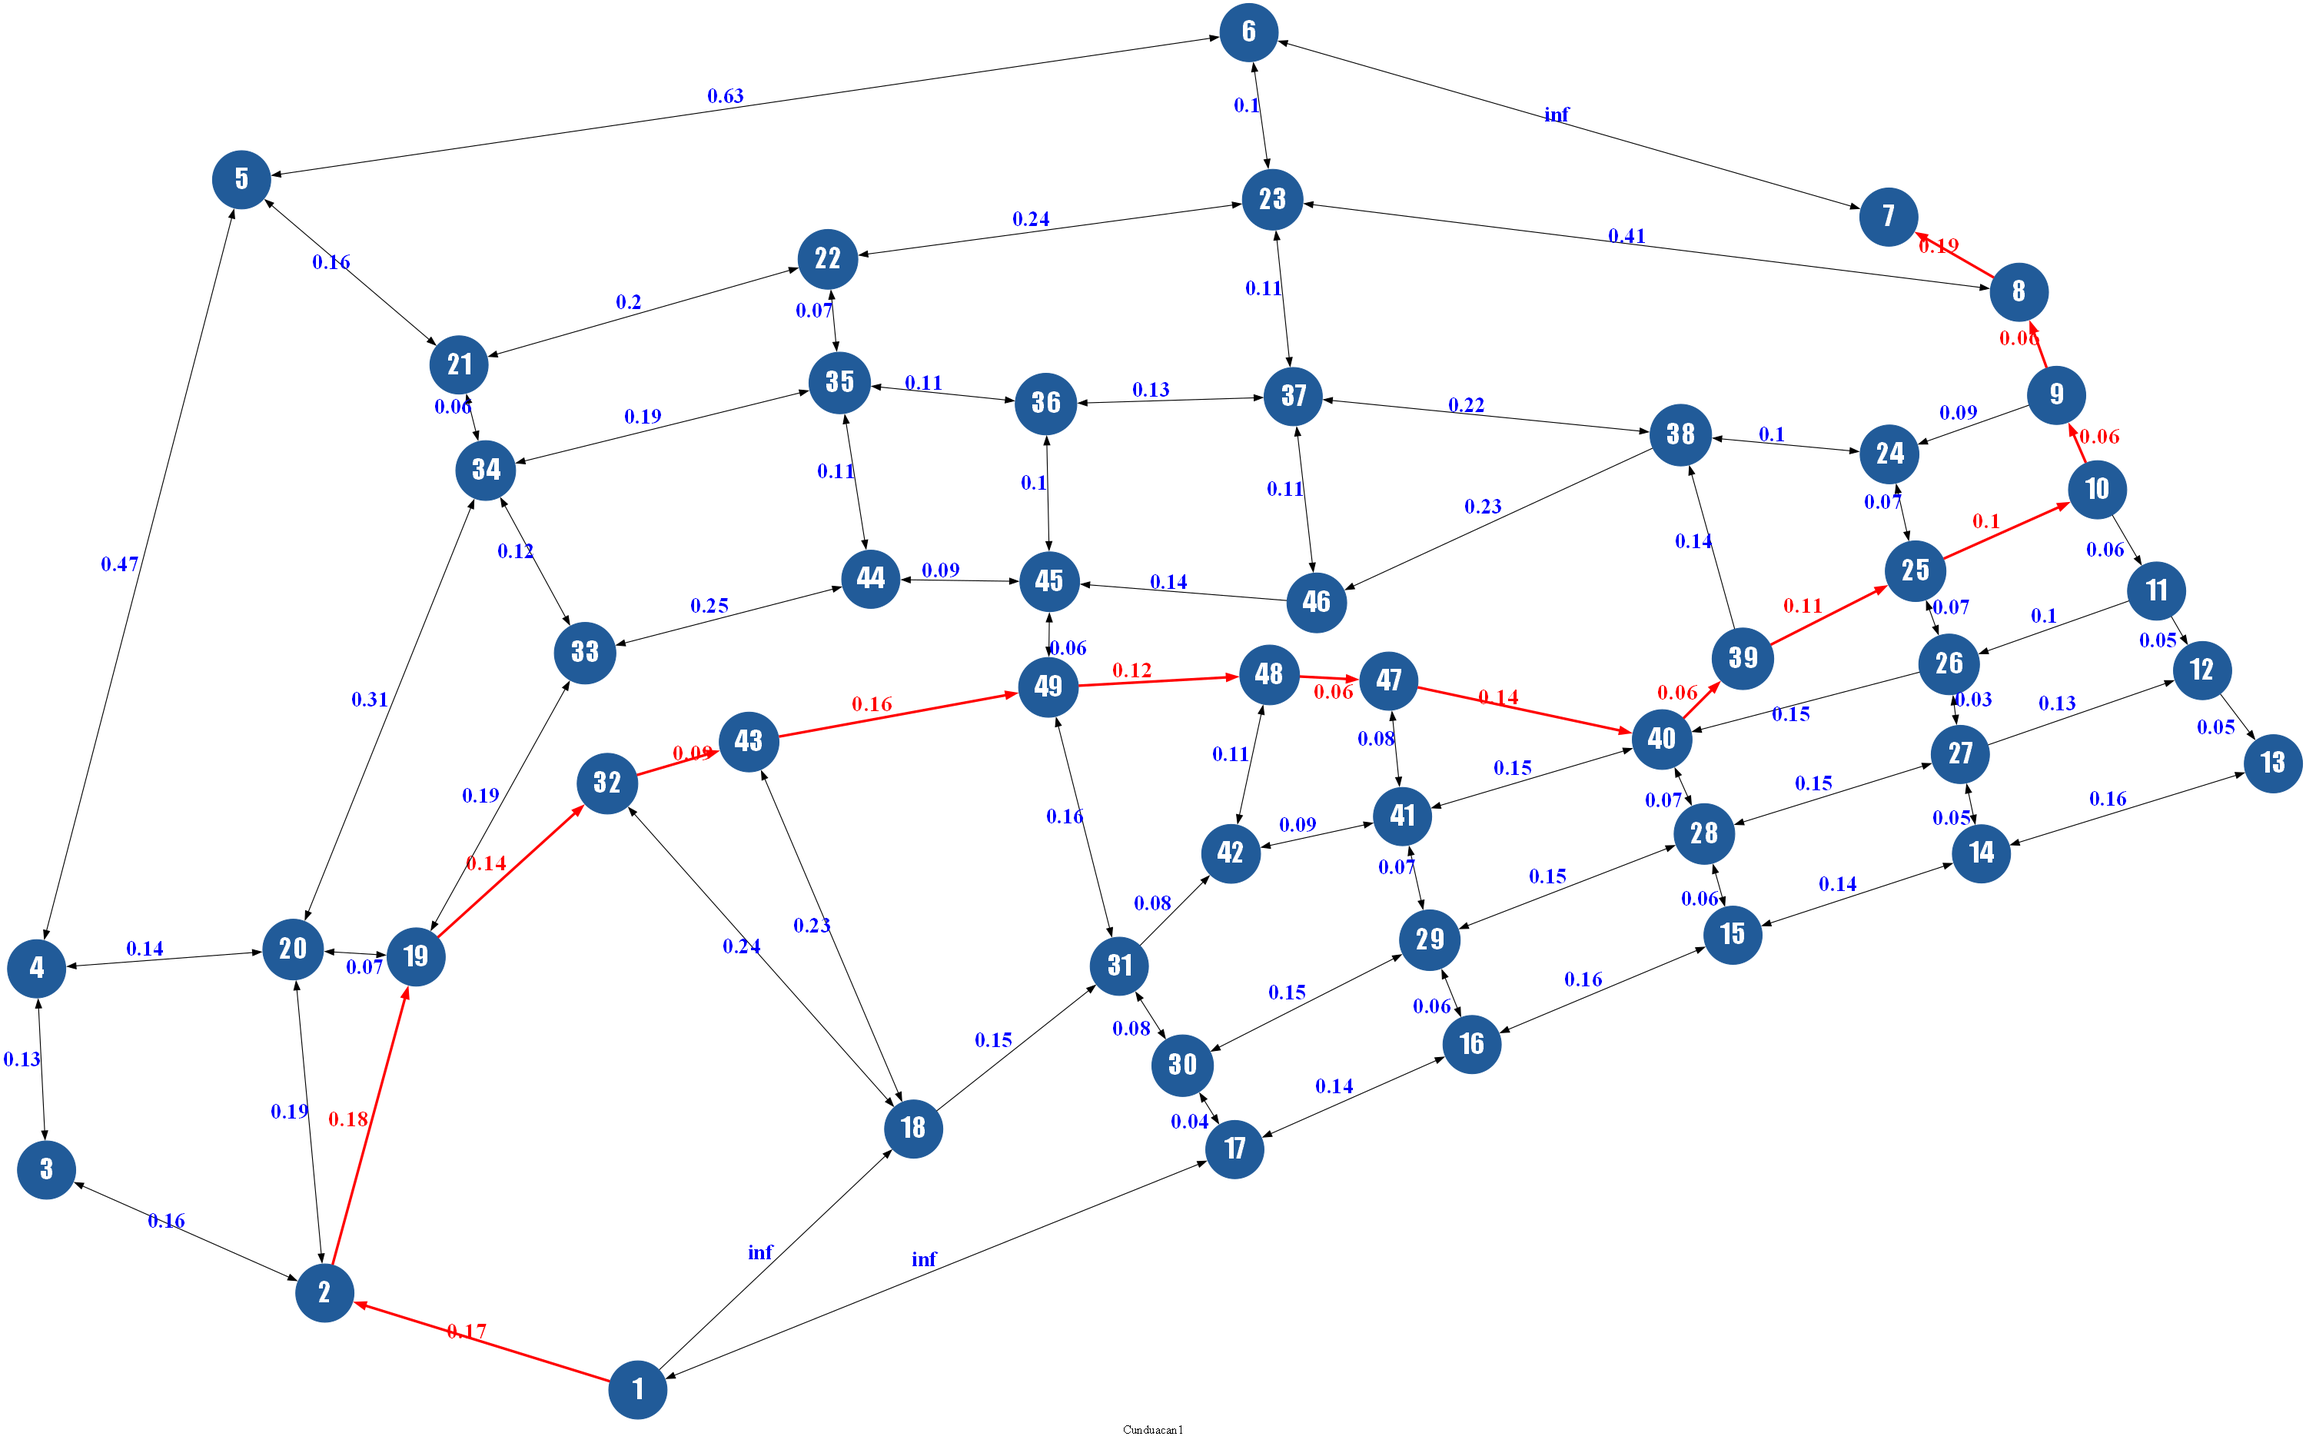
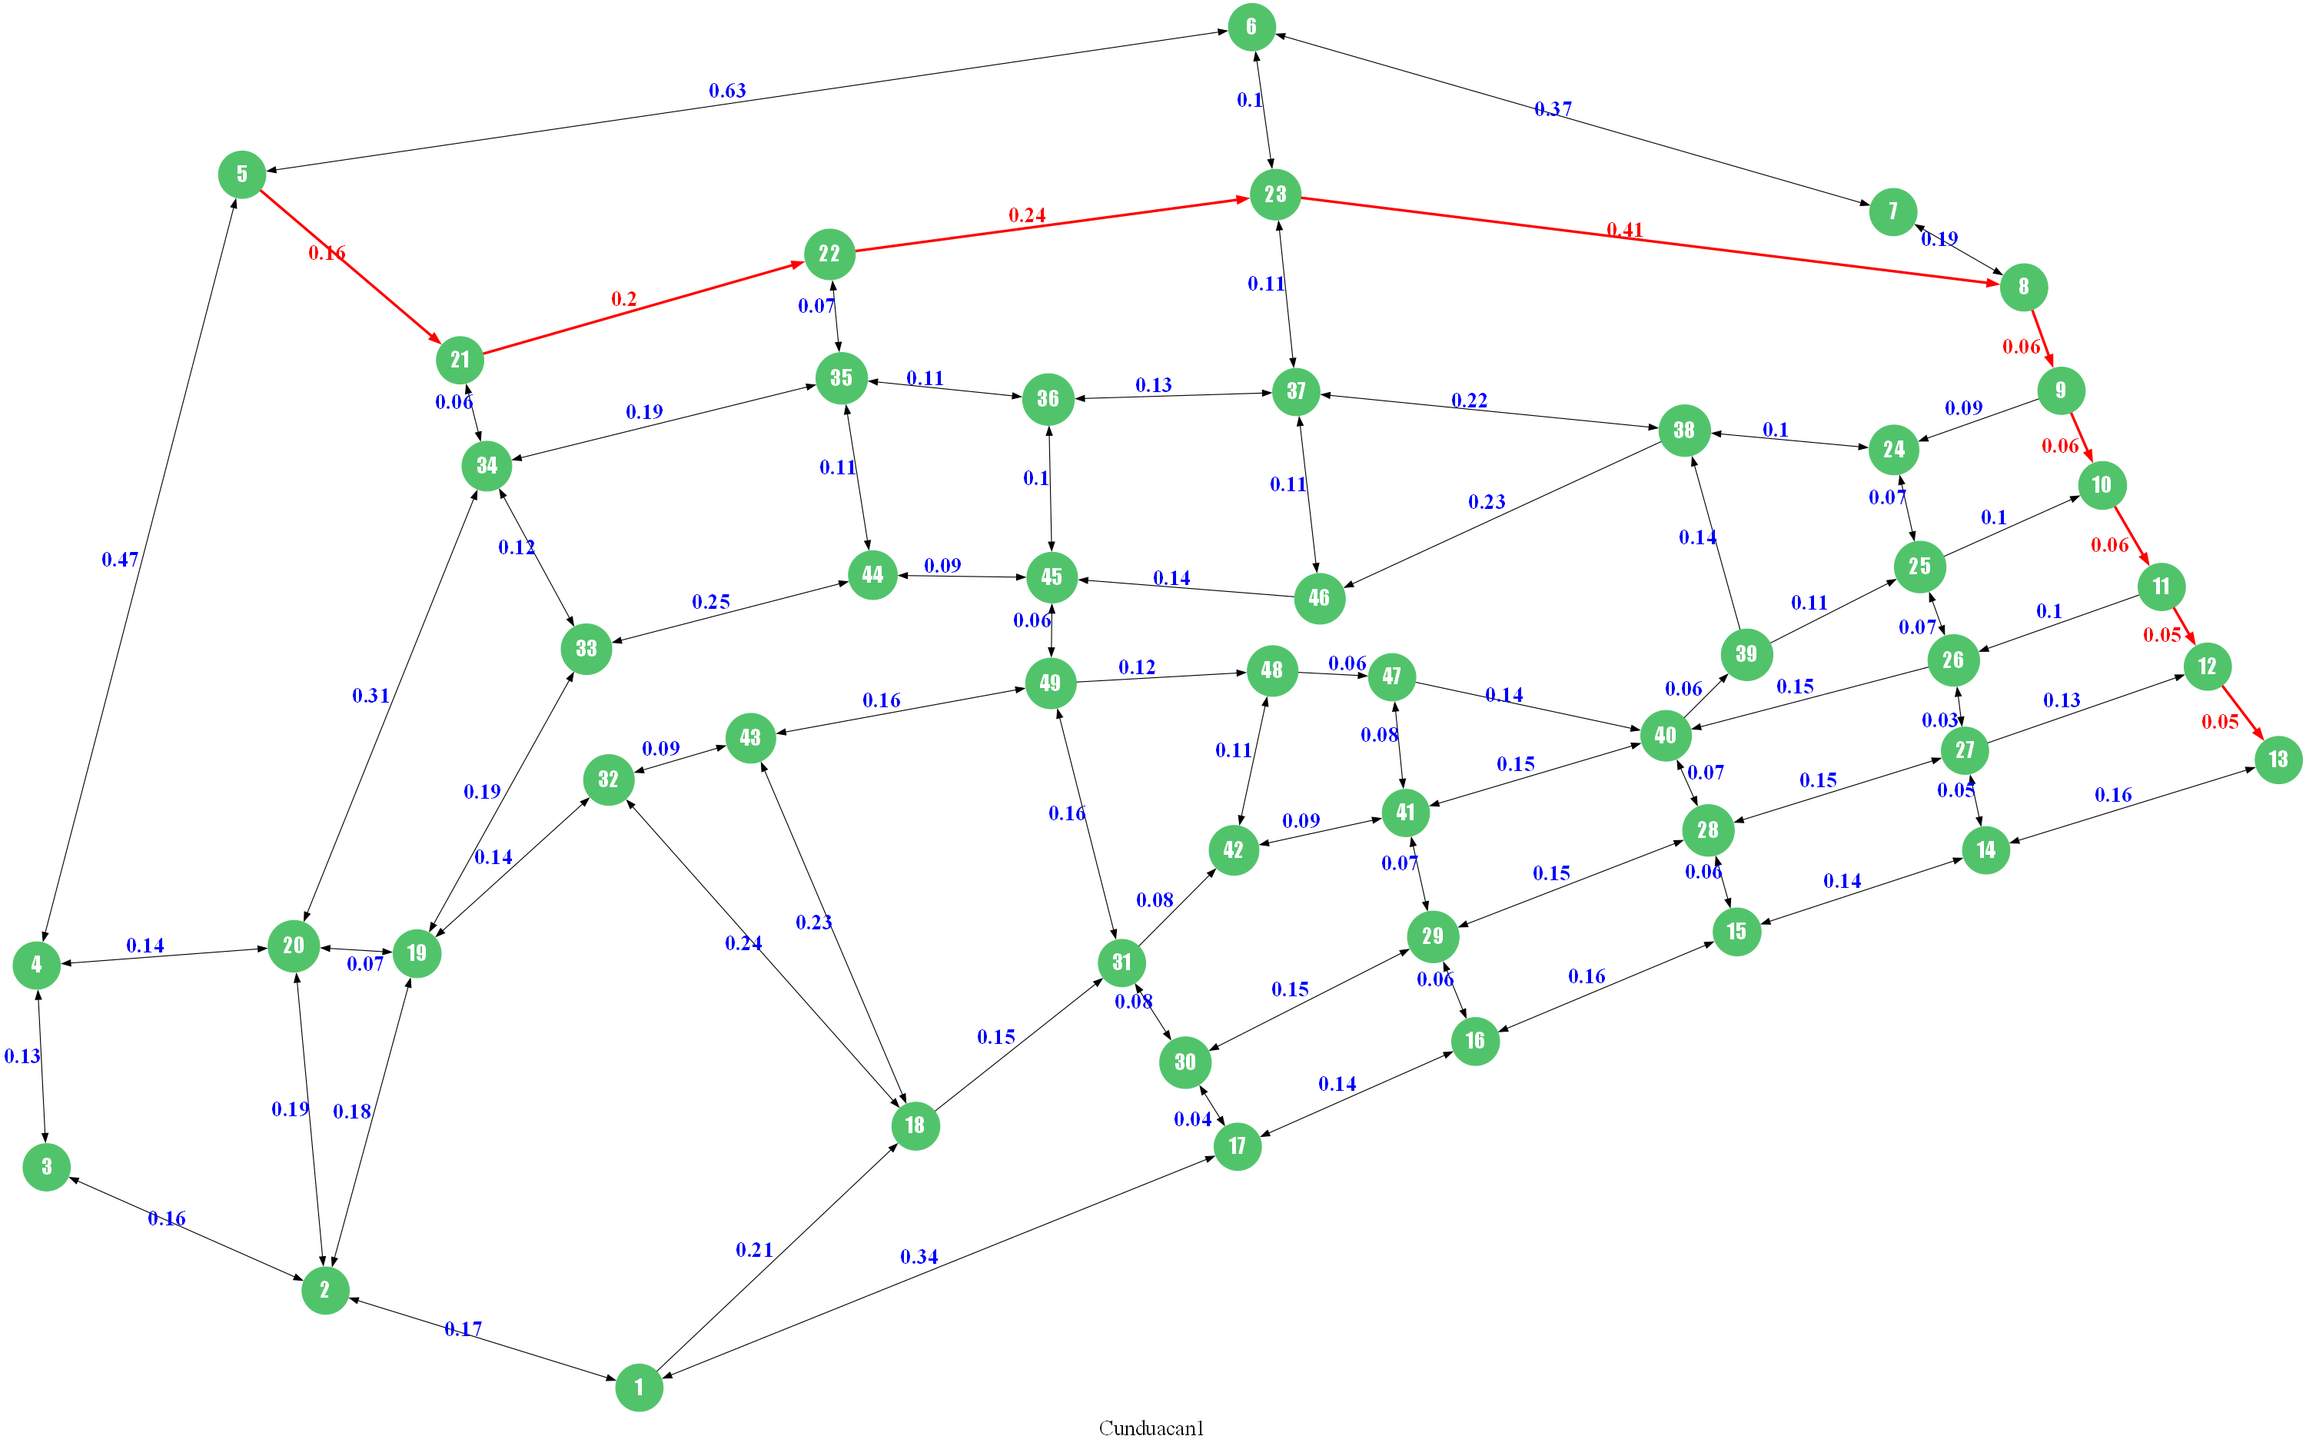
correccion de bug para pintar grafos, nuevo metodo de busqueda de arista en lista de aritas, se renombro los atributos de las aristas w -> weight

diff --git a/pinta.py b/pinta.py
@@ -10,12 +10,20 @@ coordenadas = []
 def pos_arista(GA, A): #calculamos la posicion de una arista en el grafo
     pos = 0
     for a in GA:
+        if a.vi.info == A.vi.info and a.vf.info == A.vf.info and a.weight == A.weight:               
+            return pos          
+        pos +=1
+    return -1
+
+def pos_arista_sin_peso(GA, A): #calculamos la posicion de una arista en el grafo
+    pos = 0
+    for a in GA:
         if a.vi.info == A.vi.info and a.vf.info == A.vf.info:               
             return pos          
         pos +=1
     return -1
 
-def pos_vert(G, vi): #calculamos la posicion de un vertice en el grafo
+def pos_vert(G:Grafo, vi:Vertice): #calculamos la posicion de un vertice en el grafo
     pos = 0
     for v in G.V:
         if v.info == vi.info:                
@@ -23,52 +31,50 @@ def pos_vert(G, vi): #calculamos la posicion de un vertice en el grafo
         pos +=1
     return -1
 
-def pos_aris_en_aris(a,B): #calculamos la posicion de un vertice en el grafo
+def pos_aris_en_aris(a:Arista,B:list[Arista]): #calculamos la posicion de un vertice en el grafo
     pos = 0       
     for b in B:
-        if a.vi.info == b.vi.info and a.vf.info == b.vf.info:                            
+        if a.vi.info == b.vi.info and a.vf.info == b.vf.info and a.weight == b.weight:                            
             return pos          
         pos +=1
     return -1
 
-def pinta_grafo(G, nombre="grafo", layout="circo", img_hd=False, p = False, camino=[], coordenadas=""): #layout : circo, dot, fdp, neato, osage, twopi
+def pinta_grafo(G, nombre="grafo", layout="circo", img_hd=False, p = False, camino=[], coordenadas="", font_size_label=15): #layout : circo, dot, fdp, neato, osage, twopi
     Q = []
-    hay_camino = False
-    if camino:
-        LC = list(map(lambda i,f: Arista(Vertice(i),Vertice(f)), camino[:-1], camino[1:]))
-        hay_camino = True     
+    if camino: #si hay caminos en la lista, los paso a una lista de arista 
+        LC = list(map(lambda i,f: G.A[pos_arista_sin_peso(G.A, Arista(Vertice(i), Vertice(f)))], camino[:-1], camino[1:]))       
 
     with open('grafo.dot', 'w') as archivo:
-        archivo.write('digraph G\n{\n\tnode [shape=circle, fontsize=32, width=0.5, style=filled, color="#215b99", fontcolor="white", fontname="Impact"];\n\tlayout='+layout+';\n\tsize="10,10"\n')
+        archivo.write('digraph G\n{\n\tnode [shape=circle, fontsize='+str(font_size_label)+', style=filled, color="#51c46b", fontcolor="white", fontname="Impact"];\n\tlayout="'+layout+'";\n\tsize="10,10"\n')
         archivo.write(coordenadas)
         for a in G.A:
             if str(a.vf.info) != "":
                 if p:                    
-                    if pos_arista(G.A, Arista(a.vf, a.vi)) != -1:
-                        if hay_camino:
-                            if pos_aris_en_aris(Arista(a.vi, a.vf),LC) != -1:
-                                archivo.write('\t'+str(a.vi.info) + ' -> ' + str(a.vf.info) + '[fontcolor=blue label='+str(a.w)+',fontcolor="red",fontsize="26", color="red", penwidth=3.0, fontname="times-bold"]\n')
-                            elif pos_aris_en_aris(Arista(a.vf, a.vi),LC) != -1:
-                                archivo.write('\t'+str(a.vf.info) + ' -> ' + str(a.vi.info) + '[fontcolor=blue label='+str(a.w)+',fontcolor="red",fontsize="26", color="red", penwidth=3.0, fontname="times-bold"]\n')
+                    if pos_arista(G.A, Arista(a.vf, a.vi, a.weight)) != -1:
+                        if camino:
+                            if pos_aris_en_aris(Arista(a.vi, a.vf, a.weight),LC) != -1:
+                                archivo.write('\t'+str(a.vi.info) + ' -> ' + str(a.vf.info) + '[fontcolor=blue label='+str(a.weight)+',fontcolor="red",fontsize="'+str(font_size_label)+'", color="red", penwidth=3.0, fontname="times-bold"]\n')
+                            elif pos_aris_en_aris(Arista(a.vf, a.vi, a.weight),LC) != -1:
+                                archivo.write('\t'+str(a.vf.info) + ' -> ' + str(a.vi.info) + '[fontcolor=blue label='+str(a.weight)+',fontcolor="red",fontsize="'+str(font_size_label)+'", color="red", penwidth=3.0, fontname="times-bold"]\n')
                             else:                                                                            
-                                archivo.write('\t'+str(a.vi.info) + ' -> ' + str(a.vf.info) + '[fontcolor=blue label='+str(a.w)+', dir=both, fontsize="25", fontname="times-bold"]\n')
+                                archivo.write('\t'+str(a.vi.info) + ' -> ' + str(a.vf.info) + '[fontcolor=blue label='+str(a.weight)+', dir="both", fontsize="'+str(font_size_label)+'", fontname="times-bold"]\n')
                         else:                                                                            
-                            archivo.write('\t'+str(a.vi.info) + ' -> ' + str(a.vf.info) + '[fontcolor=blue label='+str(a.w)+', dir=both, fontsize="25", fontname="times-bold"]\n')
+                            archivo.write('\t'+str(a.vi.info) + ' -> ' + str(a.vf.info) + '[fontcolor=blue label='+str(a.weight)+', dir="both", fontsize="'+str(font_size_label)+'", fontname="times-bold"]\n')
                         #if pos_aris_en_aris(Arista(a.vf, a.vi),G.A) != -1:
-                        G.A.pop(pos_arista(G.A, Arista(a.vf, a.vi)))                                          
+                        del G.A[pos_arista(G.A, Arista(a.vf, a.vi, a.weight))]                                          
                     else:
-                        if hay_camino:
-                            if pos_aris_en_aris(Arista(a.vi, a.vf),LC) != -1:
-                                archivo.write('\t'+str(a.vi.info) + ' -> ' + str(a.vf.info) + '[fontcolor=blue label='+str(a.w)+',fontcolor="red",fontsize="26", color="red", penwidth=3.0, fontname="times-bold"]\n')
+                        if camino:
+                            if pos_aris_en_aris(Arista(a.vi, a.vf, a.weight),LC) != -1:
+                                archivo.write('\t'+str(a.vi.info) + ' -> ' + str(a.vf.info) + '[fontcolor=blue label='+str(a.weight)+',fontcolor="red",fontsize="'+str(font_size_label)+'", color="red", penwidth=3.0, fontname="times-bold"]\n')
                             else:
-                                archivo.write('\t'+str(a.vi.info) + ' -> ' + str(a.vf.info) + '[fontcolor=blue label='+str(a.w)+', fontsize="25", fontname="times-bold"]\n')
+                                archivo.write('\t'+str(a.vi.info) + ' -> ' + str(a.vf.info) + '[fontcolor=blue label='+str(a.weight)+', fontsize="'+str(font_size_label)+'", fontname="times-bold"]\n')
                         else:
-                            archivo.write('\t'+str(a.vi.info) + ' -> ' + str(a.vf.info) + '[fontcolor=blue label='+str(a.w)+', fontsize="25", fontname="times-bold"]\n')                         
+                            archivo.write('\t'+str(a.vi.info) + ' -> ' + str(a.vf.info) + '[fontcolor=blue label='+str(a.weight)+', fontsize="'+str(font_size_label)+'", fontname="times-bold"]\n')                         
                 else:
                     archivo.write('\t'+str(a.vi.info) + ' -> ' + str(a.vf.info) + '\n')
             else:
                  archivo.write('\t'+str(a.vi.info) +'\n')
-        archivo.write('\tlabel="'+nombre+'"\n}')
+        archivo.write('\tlabel="'+nombre+'" fontsize='+str(font_size_label)+'\n}')
     if img_hd:
         comando = 'dot -Tpng -Gdpi=300 -o '+nombre+'.png grafo.dot'
     else:
@@ -80,8 +86,8 @@ def showGraph(nombre_img):
     imagen = mpimg.imread(nombre_img+'.png')
     # Visualiza la imagen
     plt.imshow(imagen)
-    # Opcionalmente, puedes agregar un título a la figura
-    plt.title(nombre_img)    
+    # Opcionalmente, puedes agregar un título a la figura   
+    plt.axis('off')
     # Muestra la imagen en una ventana emergente
     plt.show()
     '''

diff --git a/Grafos.py b/Grafos.py
@@ -165,7 +165,7 @@ def pos_vert(G:Grafo, vi: Vertice): #calculamos la posicion de un vertice en el 
 def pos_arista(G:Grafo, A: Arista): #calculamos la posicion de una arista en el grafo
         pos = 0
         for a in G.A:
-            if a.vi.info == A.vi.info and  a.vf.info == A.vf.info:               
+            if a.vi.info == A.vi.info and  a.vf.info == A.vf.info and a.weight == A.weight:              
                 return pos          
             pos +=1
         return -1
@@ -181,7 +181,7 @@ def dist_min(Q): #calculamos cual de los vertice de la cola Q es mas pequeño en
 def peso(G, vi, vf): #calculamo el peso de un vertice a otro
     for a in G.A:
         if a.vi.info == vi.info and a.vf.info == vf.info:
-            return a.w
+            return a.weight
 
 #algoritmo de busqueda en profundidad
 def DFS(G:Grafo, vi:Vertice, vf:Vertice):
@@ -215,7 +215,7 @@ def dijkstra(G:Grafo, vi:Vertice):
                     #print([u.info, u.visitado, u.dist, list(map(lambda x: x.info, u.padre))])
         # list(map(lambda vij: [vij.info, vij.visitado, vij.dist, vij.padre], G.V))
 
-def Floyd_Warshall(G:Grafo):
+def matriz_pesos(G:Grafo):
     mad_pesos = []    
     for vi in G.V:
         fila = []
@@ -225,22 +225,25 @@ def Floyd_Warshall(G:Grafo):
             else:
                 pos_ar = pos_arista(G,Arista(G.V[pos_vert(G,vi)], G.V[pos_vert(G,vj)]))
                 if pos_ar != -1:
-                    fila += [G.A[pos_ar].w]
+                    fila += [G.A[pos_ar].weight]
                 else:
                     fila += [float('+inf')]
         mad_pesos += [fila]
+    return mad_pesos
 
-        n = len(mad_pesos)
-        D = [row[:] for row in mad_pesos]
-        for k in range(0,n): #calculamos las distancias cortas pasando por k
-            for i in range(0,n): #aqui vamos a iterar sobre los verticces fila
-                if i != k:
-                    for j in range(0,n):#aqui vamos a iterar sobre los verticces columna
-                        if j != k:
-                            dt = round(D[i][k] + D[k][j],2) #calculamos cuanto cuesta ir de i a j pasando por k
-                            if D[i][j] > dt: #si es menor ese valor que dij lo cambiamos
-                                D[i][j] = dt
-    return mad_pesos,D
+def Floyd_Warshall(G:Grafo):    
+    mad_pesos = matriz_pesos(G)
+    n = len(mad_pesos)
+    D = [row[:] for row in mad_pesos]
+    for k in range(0,n): #calculamos las distancias cortas pasando por k
+        for i in range(0,n): #aqui vamos a iterar sobre los verticces fila
+            if i != k:
+                for j in range(0,n):#aqui vamos a iterar sobre los verticces columna
+                    if j != k:
+                        dt = round(D[i][k] + D[k][j],2) #calculamos cuanto cuesta ir de i a j pasando por k
+                        if D[i][j] > dt: #si es menor ese valor que dij lo cambiamos
+                            D[i][j] = dt
+    return D
 
 def buscar_vf(L, c): #busca el vertice final en la lista de vertices con sus pesos
      for li in L:
@@ -255,18 +258,21 @@ def camino_corto_vi_vf(G:Grafo, vi:Vertice, vf:Vertice): #calcula el camino mas 
     while ci != vi.info:
         ci,ca = buscar_vf(dist_dijk, ci)
         camino.insert(0, ca)
-    camino.insert(0,vi.info)
+    camino.insert(0,vi.info)        
     return camino
 
 def cerrar_calle(G:Grafo, vi, vf):
-    G.A[pos_arista(G, Arista(busca_vertice(G,vi),busca_vertice(G,vf)))].w = float('+inf')
+    G.A[pos_arista(G, Arista(busca_vertice(G,vi),busca_vertice(G,vf)))].weight = float('+inf')
+
+
+        
 
 
 def pintaGP(G:Grafo):
     n_vertices = len(G.V)
     edges = list(map(lambda x: [x.vi.info, x.vf.info], G.A))  
     g = ig.Graph(n_vertices, edges, directed=True)    
-    g.es["weight"] = list(map(lambda x: x.w, G.A))    
+    g.es["weight"] = list(map(lambda x: x.weight, G.A))    
     vertices_info = list(map(lambda x: x.info, G.V)) 
     fig, ax = plt.subplots()
     ig.plot(
@@ -368,9 +374,9 @@ coordenadas = ('1 [pos="10.99,-23.18!"]\n2 [pos="5.95,-21.62!"]\n3 [pos="1.47,-1
 #cerrar_calle(colonia, 1, 18)
 #cerrar_calle(colonia, 1, 17)
 #cerrar_calle(colonia, 6, 7)
-#corto = camino_corto_vi_vf(colonia, busca_vertice(colonia,1), busca_vertice(colonia,7)) 
-#print(corto)
-#pinta.pinta_grafo(colonia, "Cunduacan1", "neato",True,True, corto, coordenadas)
+camino_corto = camino_corto_vi_vf(colonia, busca_vertice(colonia,5), busca_vertice(colonia,13)) 
+print(camino_corto)
+pinta.pinta_grafo(colonia, "Cunduacan1", "neato",True,True, camino_corto, coordenadas,25)
 
 ###################################33
 #print(describe_grafo_dist(g001))
@@ -403,12 +409,14 @@ plt.show()
 #print(camino_corto_vi_vf(gf1, busca_vertice(gf1,1), busca_vertice(gf1,6)))
 #pinta.pinta_grafo(gf1, "gf1","dot",False,True)
 
-gpneg = leer_grafop_file("grafopnegativo.dat", "gpneg")
+#gpneg = leer_grafop_file("grafopnegativo.dat", "gpneg")
+#pinta.pinta_grafo(gpneg, "gpneg","circo",False,True,[],"",15)
+'''
 #dijkstra(gpneg, busca_vertice(gpneg,1))
 corto2 = camino_corto_vi_vf(gpneg, busca_vertice(gpneg,1), busca_vertice(gpneg,2))
 print(corto2)
 ll = list(map(lambda i,f: gpneg.A[pos_arista(gpneg,Arista(Vertice(i),Vertice(f)))], corto2[:-1], corto2[1:]))
-l2 = list(map(lambda vij: [vij.vi.info, vij.vf.info, vij.w], ll))
+l2 = list(map(lambda vij: [vij.vi.info, vij.vf.info, vij.weight], ll))
 suma = 0
 for a in l2:
     suma += a[2]
@@ -420,4 +428,5 @@ print('---------FW-----------')
 print('\n'.join(map(str, mad_d)))  #esto es para floid-warshall
 
 #pinta.pinta_grafo(gpneg, "gpneg","circo",False,True)
+'''
 

diff --git a/class_grafo.py b/class_grafo.py
@@ -16,20 +16,17 @@ class Vertice:
 
 #definimos una Arista
 class Arista:
-    def __init__(self, vi, vf, w = float('+inf')):
+    def __init__(self, vi, vf, weight = float('+inf')):
         self.vi = vi
         self.vf = vf
-        if w == float('+inf'):
-            self.w = w #ponderdo de la arista
+        if weight == float('+inf'):
+            self.weight = weight #ponderdo de la arista
         else:
-            try:
-                self.w = int(w)
-            except ValueError:
-                try:
-                    self.w = float(w)
-                except ValueError:                
-                    pass
-        self.info = [self.vi.info, self.vf.info, self.w] #informacion de la arista
+            if '.' in str(weight):
+                self.weight = float(weight)
+            else:                
+                self.weight = int(weight)           
+        self.info = [self.vi.info, self.vf.info, self.weight] #informacion de la arista
   
 
 #definimos un Grafo
